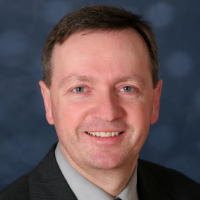
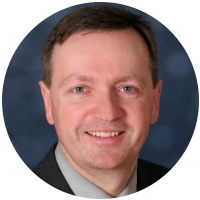
edit images of speaker

Changed region(s): [[0.0, 0.0, 1.0, 1.0]]

diff --git a/themes/hugo-creative-theme/static/scss/_styles.scss b/themes/hugo-creative-theme/static/scss/_styles.scss
@@ -571,9 +571,9 @@ header {
 		}
 
 		img {
-			height: 90%;
+			height: 150px;
 			width: auto;
-			max-width: 170px;
+			max-width: 160px;
 		}
 
 		&.big {height: 170px;}

diff --git a/content/speakers/kevin-wittek.md b/content/speakers/kevin-wittek.md
@@ -1,7 +1,7 @@
 +++
 name="Kevin"
 lastname="Wittek"
-image="/img/speakers/kevin-wittek.jpeg"
+image="/img/speakers/kevin-wittek.png"
 firm="""
 Senior Software Developer - GDATA Advanced Analytics
 CEO - Styracosoft GbR

diff --git a/content/speakers/stefan-scherer.md b/content/speakers/stefan-scherer.md
@@ -1,7 +1,7 @@
 +++
 name="Stefan"
 lastname="Scherer"
-image="/img/speakers/stefan-scherer.jpeg"
+image="/img/speakers/stefan-scherer.png"
 firm="SEAL Systems"
 +++
 
